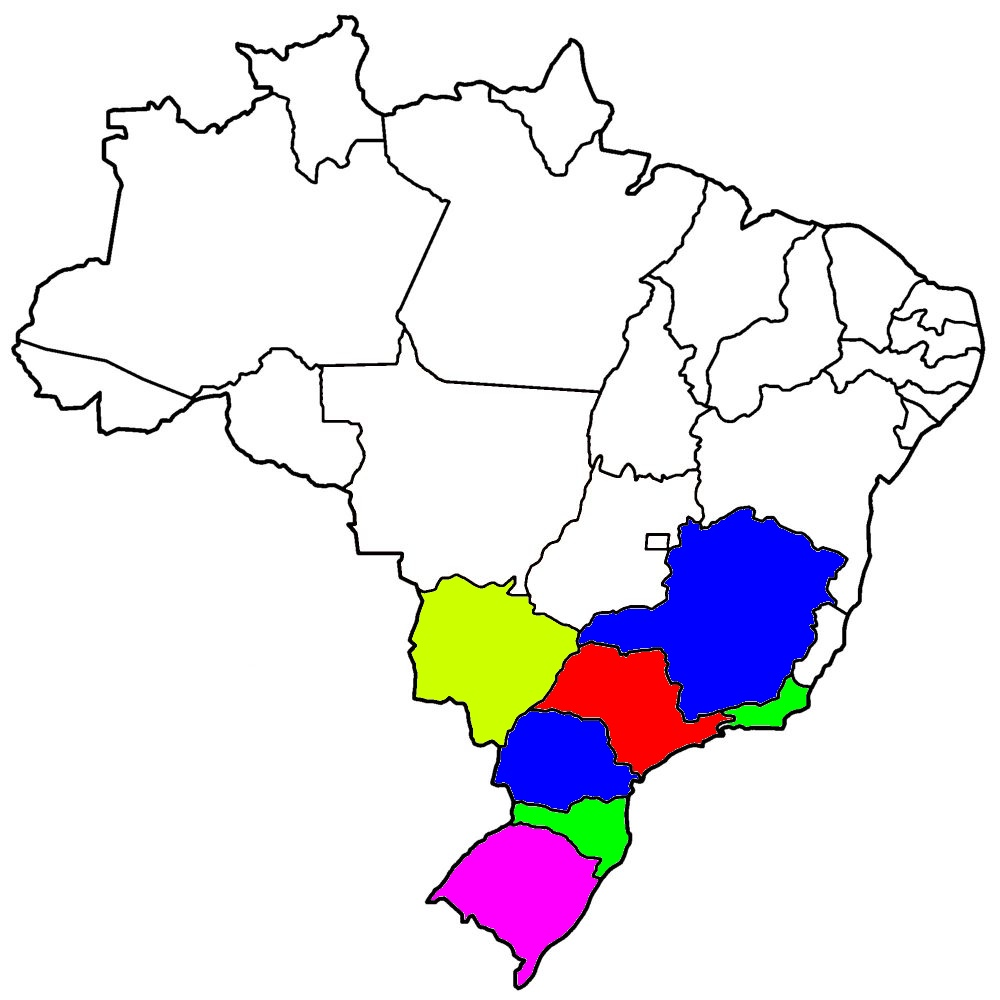
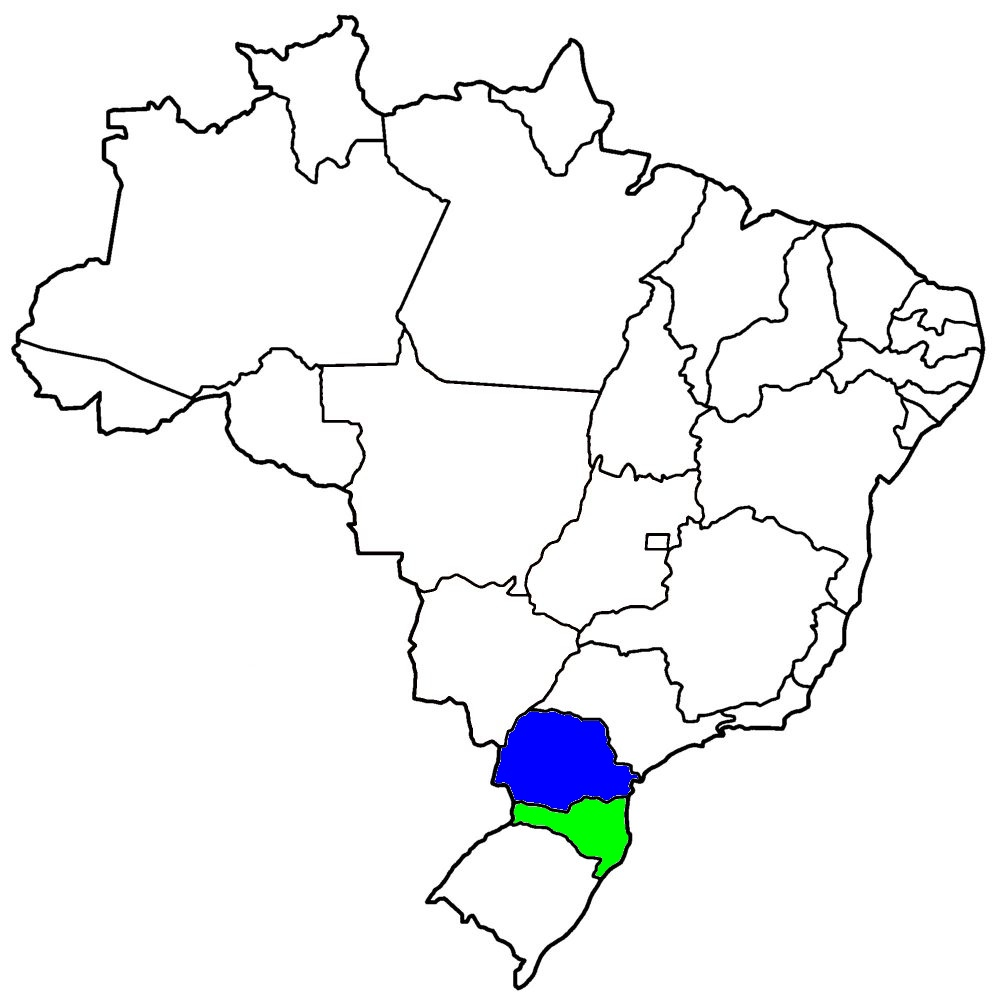
funfando

Changed region(s): [[0.403, 0.496, 0.837, 0.775], [0.434, 0.806, 0.62, 0.992]]

diff --git a/main.py b/main.py
@@ -60,8 +60,9 @@ class Graph:
         return self.vert_dict.keys()
 
 def showImg(img):
-    cv.imshow('image', img)
-    cv.waitKey(500)
+    img = cv.resize(img,(600,600))
+    cv.imshow("Brasil", img)
+    cv.waitKey(0)
     cv.destroyAllWindows()
 
 def adicionarConexoes(g):
@@ -215,8 +216,8 @@ def printGrafo(g):
 
 
 def bfs(imagem, pasta, graph, n):
-    # 0 - red, 1 - green, 2 - blue, 3 - cian, 4 - pink,
-    cores = [[255,0,0], [0,255,0], [0,0,255], [0, 255, 204], [255, 0, 255]]
+    # 0 - azul, 1 - verde, 2 - vermelho, 3 - amarelo, 4 - rosa,
+    cores = [[255,0,0], [0,255,0], [0,0,255], [0, 255, 255], [255, 0, 255]]
     
     img = cv.imread(imagem+'.jpg')
     copy = img.copy()
@@ -232,32 +233,28 @@ def bfs(imagem, pasta, graph, n):
     
     queue.append(node)
 
-    iteration = 0
+    i = 0
 
     while queue:
         # Dequeue a vertex from 
         # queue and print it
         
+
+        print(i)
         popped = queue.pop(0)
         print (popped, end = "\n")
 
-        '''
-        cv.fillPoly(copy, pts = [popped.get_contorno()], color=(cores[iteration]))
-        cv.imwrite(pasta+'iteracao'+str(iteration)+'.jpg', copy)
-        
-        if iteration != 4: iteration += 1 
-        else: iteration = 0 
-        
-        '''
+        cv.fillPoly(copy, pts = [popped.get_contorno()], color=(cores[i%5]))
+        cv.imwrite(pasta+'iteracao'+str(i)+'.jpg', copy)    
+
+        showImg(copy)
+
         for x in popped.adjacent:
             if x.visited == False:
-                queue.append(x)
                 x.visited = True
+                queue.append(x)    
 
-            print('--------------')
-                
-    
-
+        i += 1
 def main():
     g = Graph()
    
